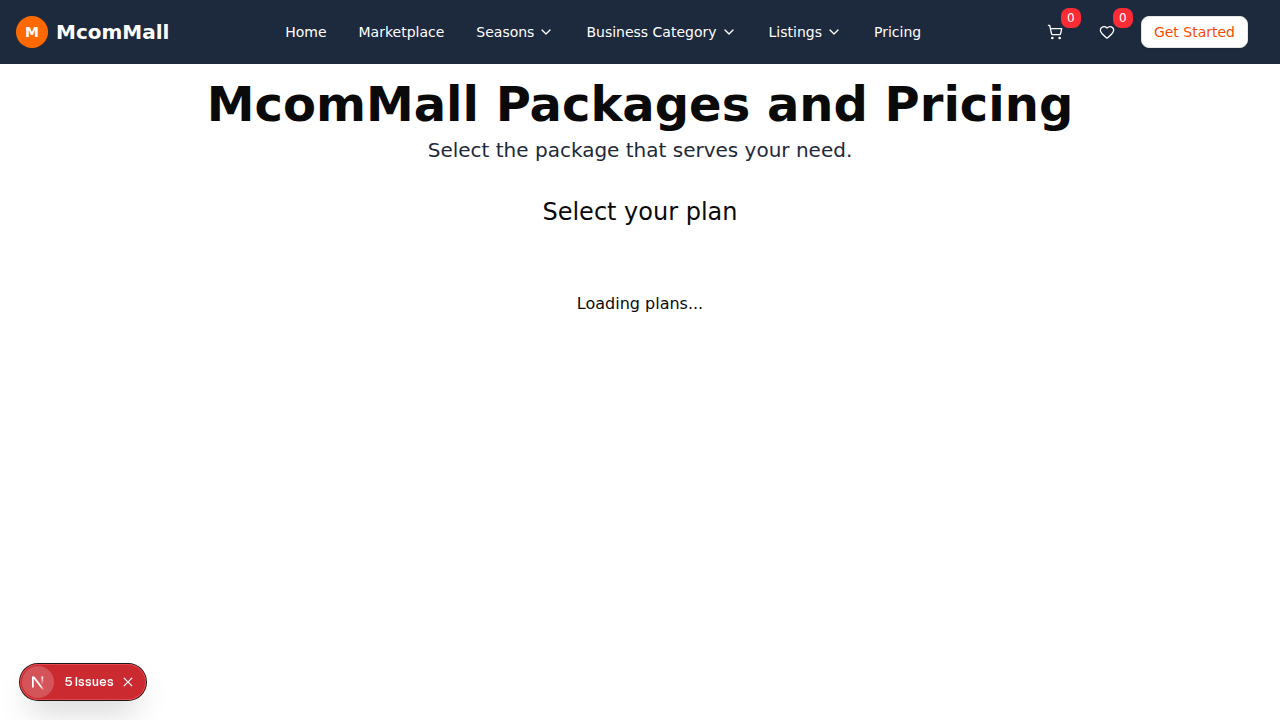
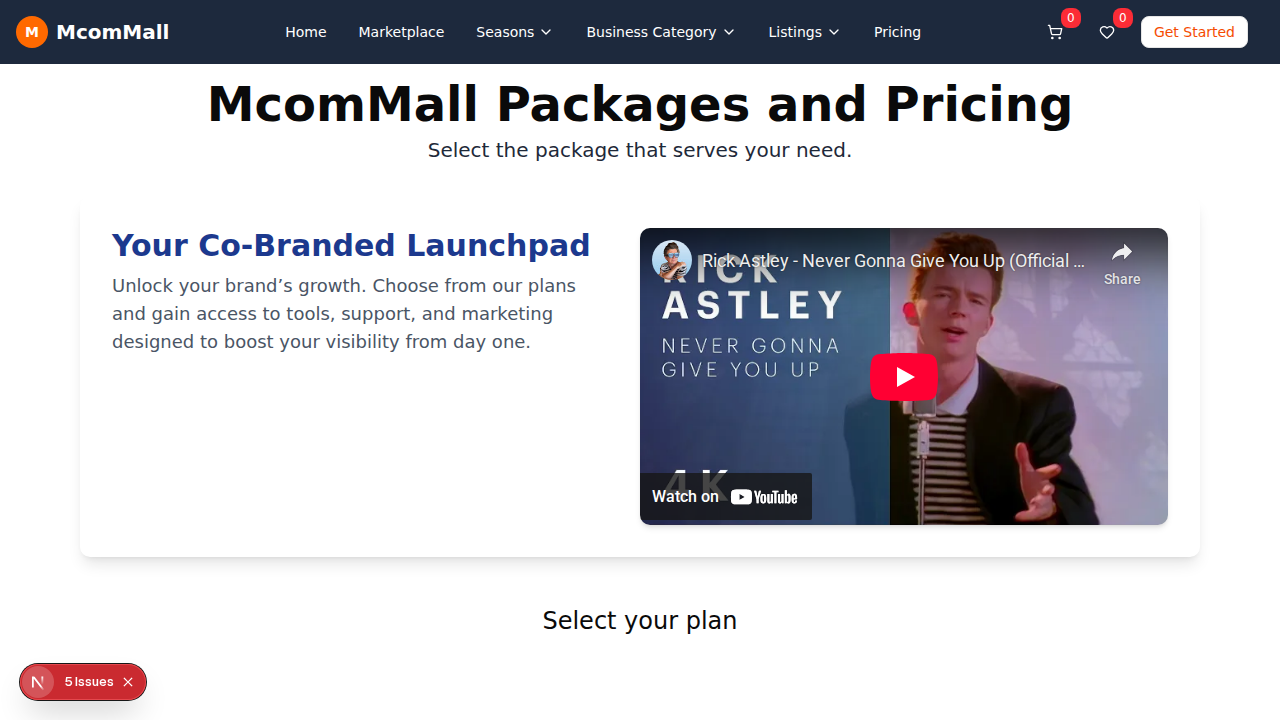
Restore video guide and finalize Pricing Page layout

Changed region(s): [[0.0938, 0.275, 0.9375, 0.7333], [0.4062, 0.8556, 0.5938, 0.8861]]

diff --git a/app/pricing/components/PricingPageClient.tsx b/app/pricing/components/PricingPageClient.tsx
@@ -3,28 +3,12 @@
 import { useState } from 'react';
 import { useSearchParams } from 'next/navigation';
 import PricingCheckoutClient from './PricingCheckoutClient';
-import { useGetTiers } from '@/service/tiers/hook';
 import { Tier } from '@/service/tiers/types';
 import TiersList from '@/app/dashboard/my-subscription/components/TiersList';
-
-type PlanItem = Tier | {
-  name: string;
-  price: string;
-  primaryFeatures?: string[]
-};
 
 export default function PricingPageClient() {
   const [selectedTier, setSelectedTier] = useState<{ name: string; price: string } | null>(null);
   const [isTrial, setIsTrial] = useState(false);
-
-  // We reuse TiersList from subscription page which handles fetching internally if needed,
-  // BUT TiersList inside dashboard/my-subscription fetches tiers itself.
-  // Wait, TiersList imports useGetTiers.
-  // The user wants it to look like /my-subscription.
-  // We can reuse TiersList component directly if it fits.
-  // Let's check TiersList signature.
-  // It takes `onSelectTier`.
-  // It handles the cycle toggle internally.
 
   const searchParams = useSearchParams();
   const listingId = searchParams.get('listing_id');
@@ -54,14 +38,14 @@ export default function PricingPageClient() {
         planName={selectedTier.name}
         planPrice={selectedTier.price}
         isTrial={isTrial}
-        isPayg={false} // Defaulting to subscription model since we are unifying UI
+        isPayg={false}
         listingId={listingId}
       />
     );
   }
 
   return (
-    <div className="h-full md:py-10 md:px-20 flex flex-col items-center overflow-y-auto">
+    <div className="h-full p-4 md:py-10 md:px-20 flex flex-col items-center overflow-y-auto">
       <header className="text-center mb-8">
         <h1 className="text-3xl md:text-5xl font-semibold">
           McomMall Packages and Pricing
@@ -71,11 +55,37 @@ export default function PricingPageClient() {
         </p>
       </header>
 
+      {/* Video Guide Section */}
+      <section className="w-full max-w-6xl mb-12 flex flex-col items-center">
+        <div className="w-full p-6 sm:p-8 bg-white rounded-lg shadow-lg">
+          <div className="flex flex-col md:flex-row gap-10 items-center md:items-start">
+            <div className="flex-1 flex flex-col items-center md:items-start">
+              <h2 className="text-2xl sm:text-3xl font-bold text-center md:text-left mb-2 text-blue-900">
+                Your Co-Branded Launchpad
+              </h2>
+              <p className="text-center md:text-left text-gray-600 mb-6 text-base sm:text-lg font-medium">
+                Unlock your brand’s growth. Choose from our plans and gain access to
+                tools, support, and marketing designed to boost your visibility from day one.
+              </p>
+            </div>
+            <div className="w-full md:w-1/2 aspect-video">
+              <iframe
+                className="w-full h-full rounded-lg shadow-md"
+                src="https://www.youtube.com/embed/dQw4w9WgXcQ"
+                title="Demo Video"
+                frameBorder="0"
+                allow="accelerometer; autoplay; clipboard-write; encrypted-media; gyroscope; picture-in-picture"
+                allowFullScreen
+              ></iframe>
+            </div>
+          </div>
+        </div>
+      </section>
+
       <section className="w-full flex flex-col items-center">
         <h3 className="text-xl md:text-2xl font-medium text-center mb-6">
             Select your plan
         </h3>
-        {/* We can reuse the TiersList component from my-subscription to get the exact same look */}
         <TiersList onSelectTier={handleSelectTier} />
       </section>
     </div>
